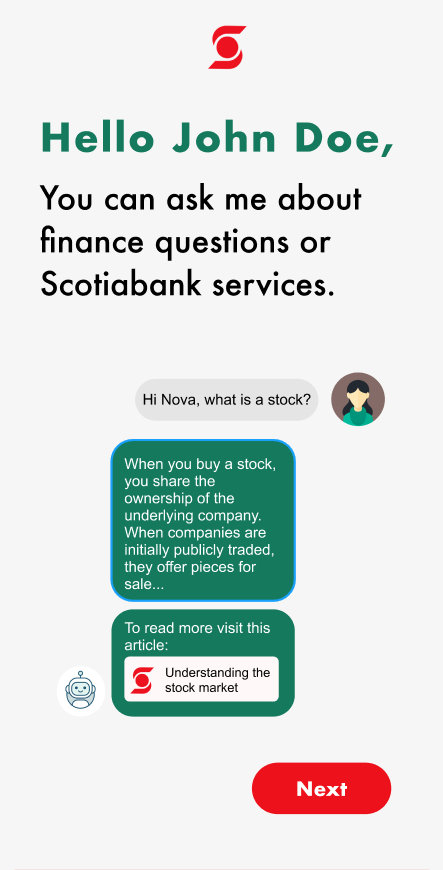
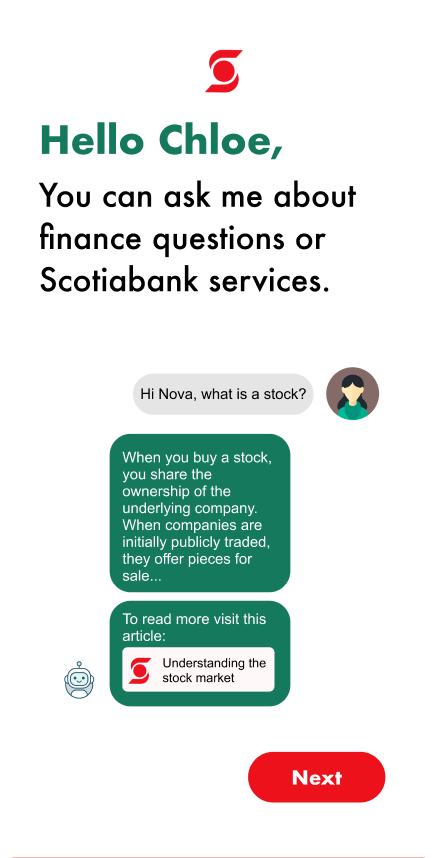
Added heading

diff --git a/src/css/styles.css b/src/css/styles.css
@@ -4,8 +4,29 @@
   src: url("fonts/futurebold.ttf");
 }
 
+.blb-tit {
+  font-size: 45px;
+  font-family: 'arial';
+  letter-spacing: 3px;
+  color: white;
+  font-weight: 600;
+}
+
+.blb-tit > span {
+  color: #15795d;
+}
+
 .bod {
   position: relative;
+}
+
+.bod-left {
+  position: fixed;
+  left: calc(50% - 200px);
+  top: 50%;
+  height: 875px;
+  -webkit-transform: translateY(-50%) translateX(-100%) scale(0.75);
+          transform: translateY(-50%) translateX(-100%) scale(0.75);
 }
 
 .bod-phone {
@@ -216,6 +237,8 @@ html {
       -ms-flex: 1;
           flex: 1;
   background-size: contain;
+  background-repeat: no-repeat;
+  background-position-x: center;
   position: relative;
   z-index: 600;
   cursor: pointer;

diff --git a/src/css/_body.scss b/src/css/_body.scss
@@ -12,8 +12,29 @@ $spec-font: 'Open Sans';
 	font-family: 'futurabold';
 	src: url('fonts/futurebold.ttf');
 }
+.blb {
+	&-tit {
+		font-size: 45px;
+		font-family: 'arial';
+		letter-spacing: 3px;
+		color: white;
+		font-weight: 600;
+		& > span {
+			color: #15795d;
+		}
+	}
+}
 .bod {
 	position: relative;
+	&-left {
+		position: fixed;
+		left: calc(50% - 200px);
+		top: 50%;
+
+		height: 875px;
+
+		transform: translateY(-50%) translateX(-100%) scale(0.75);
+	}
 	&-phone {
 		width: 450px;
 		height: 875px;
@@ -157,6 +178,8 @@ html {
 	&-frame {
 		flex: 1;
 		background-size: contain;
+		background-repeat: no-repeat;
+		background-position-x: center;
 		position: relative;
 		z-index: 600;
 		cursor: pointer;

diff --git a/src/App.js b/src/App.js
@@ -22,6 +22,13 @@ export default class App extends Component {
 
 		return (
 			<div className="bod">
+				<div className="bod-left">
+					<div className="blb">
+						<div className="blb-tit">
+							Scotia <span>iLearn</span>
+						</div>
+					</div>
+				</div>
 				<img className="bod-phone" alt="" src={require('./media/phone.png')} />
 				<div className="bod-content">
 					<div className="content">
